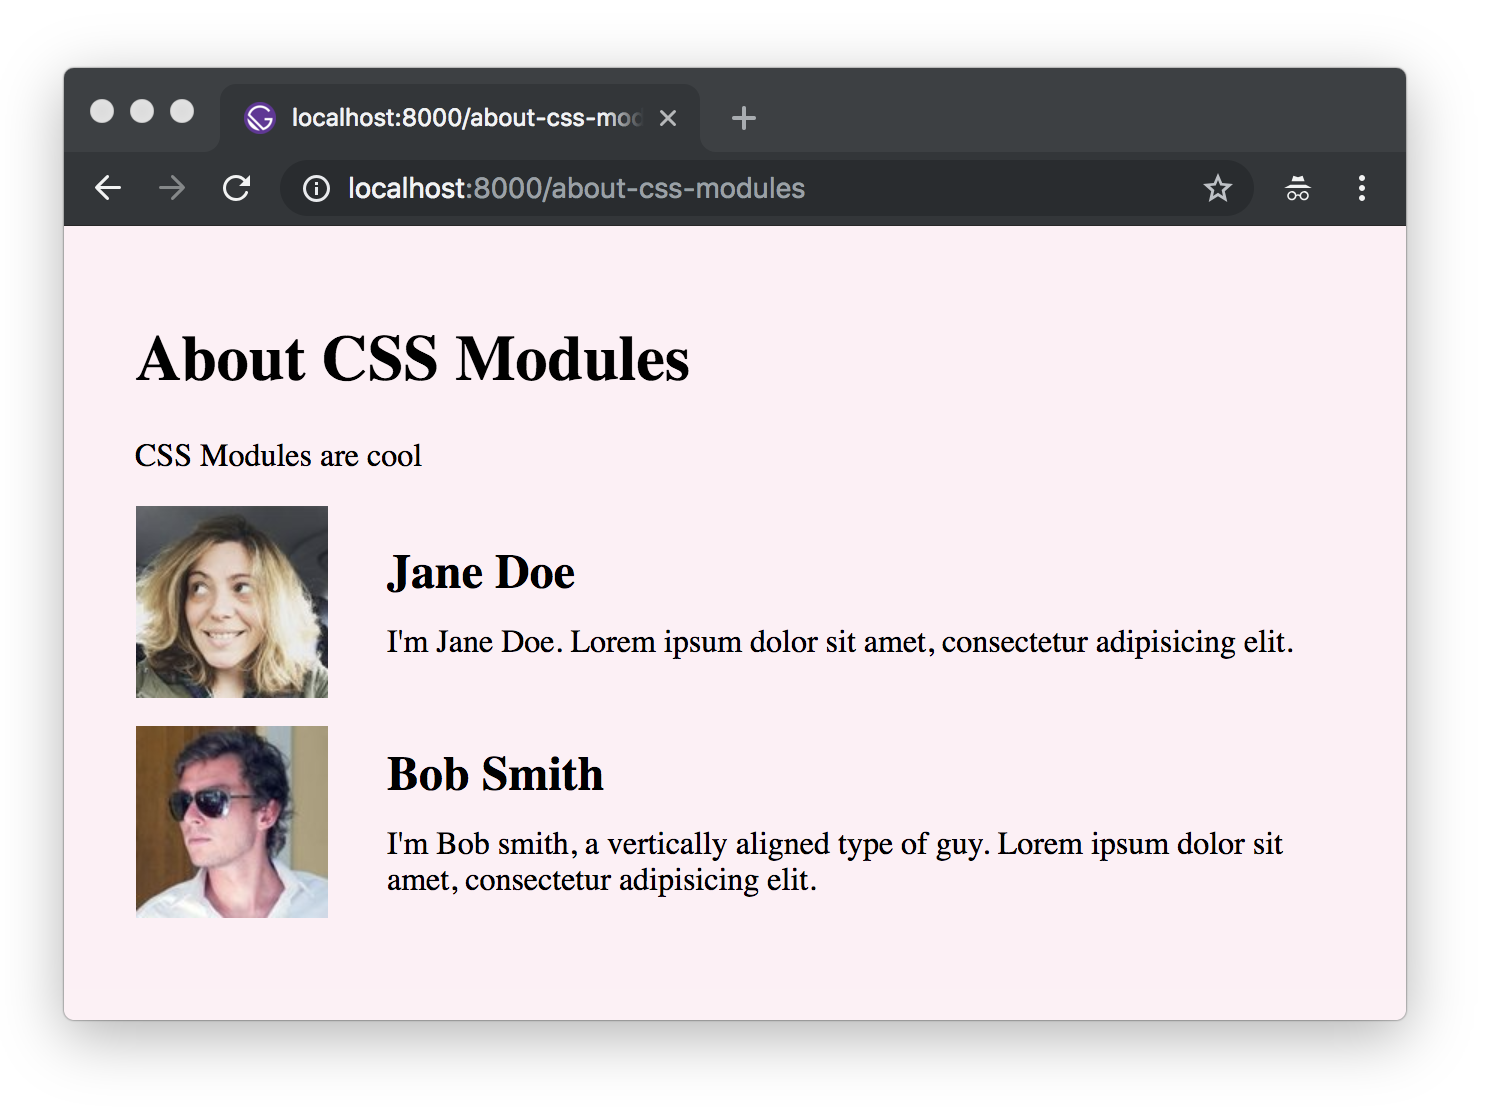
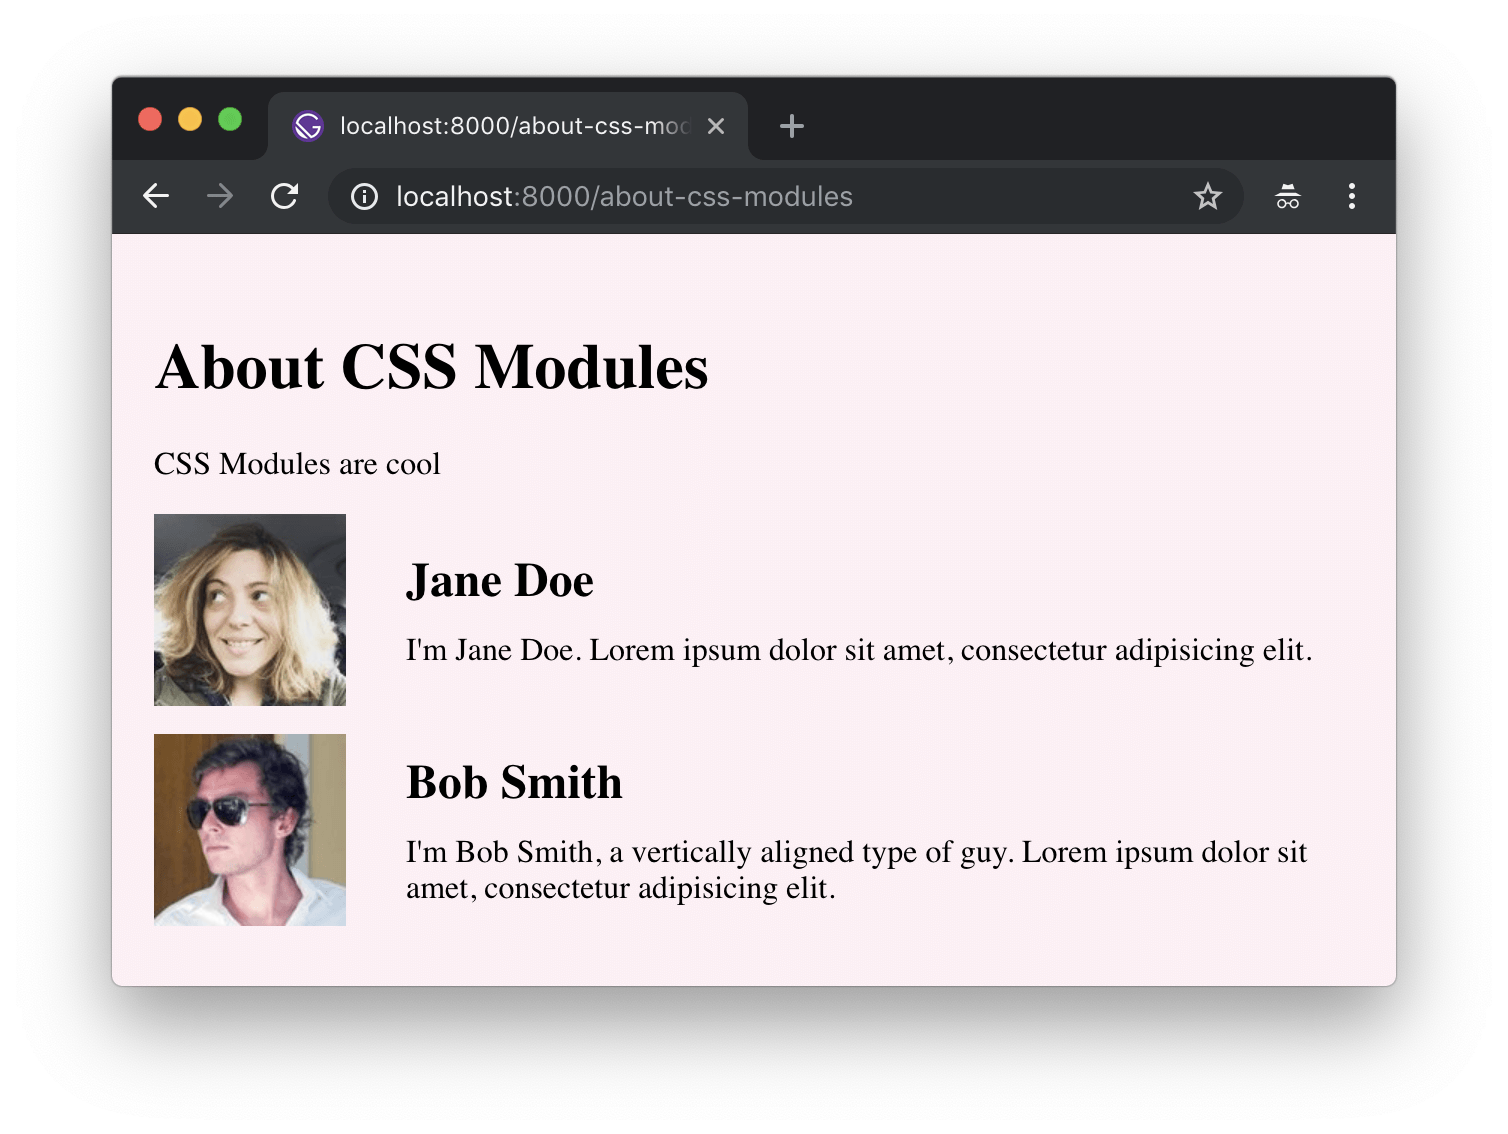
fix(docs): capitalise person's name in tutorial (#11034)

Changed region(s): [[0.0309, 0.061, 0.9583, 0.9461]]

diff --git a/docs/tutorial/part-two/index.md b/docs/tutorial/part-two/index.md
@@ -296,7 +296,7 @@ export default () => (
     <User
       username="Bob Smith"
       avatar="https://s3.amazonaws.com/uifaces/faces/twitter/vladarbatov/128.jpg"
-      excerpt="I'm Bob smith, a vertically aligned type of guy. Lorem ipsum dolor sit amet, consectetur adipisicing elit."
+      excerpt="I'm Bob Smith, a vertically aligned type of guy. Lorem ipsum dolor sit amet, consectetur adipisicing elit."
     />
     {/* highlight-end */}
   </Container>
